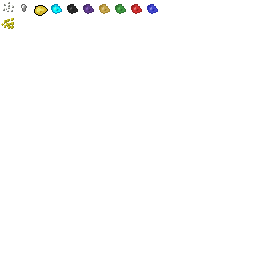
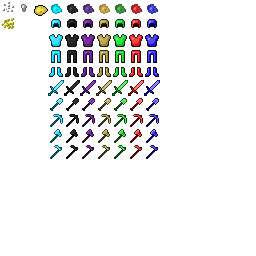
Implemented Turquoise Sword, added rough textures for all armor and gem tools

diff --git a/src/minecraft/wal/resourceengineering/common/core/items/tools/ItemToolSwordTurquoise.java b/src/minecraft/wal/resourceengineering/common/core/items/tools/ItemToolSwordTurquoise.java
@@ -1,0 +1,100 @@
+package resourceengineering.common.core.items.tools;
+
+import resourceengineering.common.ResourceEngineeringMain;
+import cpw.mods.fml.relauncher.*;
+import net.minecraft.block.Block;
+import net.minecraft.block.material.Material;
+import net.minecraft.creativetab.CreativeTabs;
+import net.minecraft.entity.Entity;
+import net.minecraft.entity.EntityLiving;
+import net.minecraft.entity.player.EntityPlayer;
+import net.minecraft.item.EnumAction;
+import net.minecraft.item.EnumToolMaterial;
+import net.minecraft.item.Item;
+import net.minecraft.item.ItemStack;
+import net.minecraft.world.World;
+
+public class ItemToolSwordTurquoise extends Item
+{
+	private int weaponDamage;
+	private final EnumToolMaterial toolMaterial;
+	public ItemToolSwordTurquoise(int ID,EnumToolMaterial material, int tex, String name)
+	{
+		super(ID);
+		toolMaterial = material;
+		maxStackSize = 1;
+		setMaxDamage(material.getMaxUses());
+		setCreativeTab(ResourceEngineeringMain.reTab);
+		weaponDamage=4 + toolMaterial.getDamageVsEntity();
+		setTextureFile("/walgfx/Items.png");
+		setIconIndex(tex);
+		setItemName(name);
+	}
+	public int func_82803_g()
+	{
+		return this.toolMaterial.getDamageVsEntity();
+	}
+	public float getStrVsBlock(ItemStack par1ItemStack,Block par2Block)
+	{
+		if(par2Block.blockID == Block.web.blockID)
+		{
+			return 15.0F;
+		}
+		else
+		{
+			Material var3 = par2Block.blockMaterial;
+			return var3 != Material.plants && var3 != Material.vine && var3 != Material.coral && var3 != Material.leaves && var3 != Material.pumpkin ? 1.0F:1.5F;
+		}
+	}
+	public boolean hitEntity(ItemStack par1ItemStack,EntityLiving par2EntityLiving,EntityLiving par3EntityLiving)
+	{
+		par1ItemStack.damageItem(1,par3EntityLiving);
+		return true;
+	}
+	public boolean onBlockDestroyed(ItemStack itemStack,World world,int par3,int x,int y,int z, int par6, EntityLiving entityLiving)
+	{
+		if((double)Block.blocksList[par3].getBlockHardness(world, x, y, z)!=0.0D)
+		{
+			itemStack.damageItem(3,entityLiving);
+		}
+		return true;
+	}
+	public int getDamageVsEntity(Entity entity)
+	{
+		return this.weaponDamage;
+	}
+	@SideOnly(Side.CLIENT)
+	public boolean isFull3D()
+	{
+		return true;
+	}
+	public EnumAction getItemUseAction(ItemStack itemStack)
+	{
+		return EnumAction.block;
+	}
+	public int getMaxItemUseDuration(ItemStack itemStack)
+	{
+		return 72000;
+	}
+	public ItemStack onItemRightClick(ItemStack itemStack,World world,EntityPlayer entityPlayer)
+	{
+		entityPlayer.setItemInUse(itemStack, this.getMaxItemUseDuration(itemStack));
+		return itemStack;
+	}
+	public boolean canHarvestBlock(Block block)
+	{
+		return block.blockID == block.web.blockID;
+	}
+	public int getItemEnchantibility()
+	{
+		return this.toolMaterial.getEnchantability();
+	}
+	public String func_77825_f()
+	{
+		return this.toolMaterial.toString();
+	}
+	public boolean getIsRepairable(ItemStack itemStack,ItemStack itemStack2)
+	{
+		return true;
+	}
+}

diff --git a/src/minecraft/wal/resourceengineering/common/core/CommonProxy.java b/src/minecraft/wal/resourceengineering/common/core/CommonProxy.java
@@ -90,13 +90,20 @@ public class CommonProxy implements IGuiHandler
 		LanguageRegistry.addName(new ItemStack(ResourceEngineeringMain.gemBlock,1,4), "Emerald Block");
 		LanguageRegistry.addName(new ItemStack(ResourceEngineeringMain.gemBlock,1,5), "Ruby Block");
 		LanguageRegistry.addName(new ItemStack(ResourceEngineeringMain.gemBlock,1,6), "Sapphire Block");
+		
+		//Swords
+		LanguageRegistry.addName(new ItemStack(ResourceEngineeringMain.turquoiseSword,1,0),"Turquoise Sword");
 	}
 	public void addRecipes()
 	{
+		//Temp crafting recipes for nuggets from flakes, will eventually be smelting
 		GameRegistry.addRecipe(new ItemStack(Item.goldNugget,1),"XXX","XXX","XXX",Character.valueOf('X'),new ItemStack(ResourceEngineeringMain.flake,1,1));//gold nugget from 9 gold flakes
 		GameRegistry.addRecipe(new ItemStack(ResourceEngineeringMain.nugget,1,0),"XXX","XXX","XXX",Character.valueOf('X'),new ItemStack(ResourceEngineeringMain.flake,1,0));//iron nugget from 9 iron flakes
+		
+		//Ingot crafting recipe(s)
 		GameRegistry.addRecipe(new ItemStack(Item.ingotIron,1),"XXX","XXX","XXX",Character.valueOf('X'),new ItemStack(ResourceEngineeringMain.nugget,1,0));//iron ingot from 9 iron nuggets
 		
+		//Golden Potato Recipe
 		GameRegistry.addRecipe(new ItemStack(ResourceEngineeringMain.goldenPotato,1,0),"XXX","XAX","XXX",Character.valueOf('X'),new ItemStack(ResourceEngineeringMain.flake,1,1),Character.valueOf('A'),Item.poisonousPotato);
 		
 		//Gem Block Recipes
@@ -126,5 +133,8 @@ public class CommonProxy implements IGuiHandler
 		FurnaceRecipes.smelting().addSmelting(ResourceEngineeringMain.oreBlock.blockID,4,new ItemStack(ResourceEngineeringMain.gem,5,4),xpPerSmelt);
 		FurnaceRecipes.smelting().addSmelting(ResourceEngineeringMain.oreBlock.blockID,5,new ItemStack(ResourceEngineeringMain.gem,5,5),xpPerSmelt);
 		FurnaceRecipes.smelting().addSmelting(ResourceEngineeringMain.oreBlock.blockID,6,new ItemStack(ResourceEngineeringMain.gem,5,6),xpPerSmelt);
+		
+		//Sword Recipes
+		GameRegistry.addRecipe(new ItemStack(ResourceEngineeringMain.turquoiseSword,1,0),"X","X","A",Character.valueOf('X'),new ItemStack(ResourceEngineeringMain.gem,1,0),Character.valueOf('A'),new ItemStack(Item.stick,1,0));
 	}
 }

diff --git a/src/minecraft/wal/resourceengineering/common/ResourceEngineeringMain.java b/src/minecraft/wal/resourceengineering/common/ResourceEngineeringMain.java
@@ -33,6 +33,9 @@ import resourceengineering.common.core.items.ItemNugget;
 import resourceengineering.common.core.items.ItemGoldenPotato;
 import resourceengineering.common.core.items.ItemGem;
 
+//Tool Imports
+import resourceengineering.common.core.items.tools.ItemToolSwordTurquoise;
+
 //Block Imports
 import resourceengineering.common.blocks.BlockOre;
 import resourceengineering.common.blocks.BlockGem;
@@ -40,7 +43,7 @@ import resourceengineering.common.blocks.BlockGem;
 @NetworkMod(clientSideRequired=true,serverSideRequired=false,
 clientPacketHandlerSpec=@SidedPacketHandler(channels={"WAL_RE"},packetHandler=ClientPacketHandler.class),
 serverPacketHandlerSpec=@SidedPacketHandler(channels = {}, packetHandler = ServerPacketHandler.class))
-@Mod(modid="walResourceEngineering",name="Resource Engineering",version="0.0.1")
+@Mod(modid="walResourceEngineering",name="Resource Engineering",version="0.0.21")
 public class ResourceEngineeringMain
 {
 	@Instance("Wal_ResourceEngineering")
@@ -55,11 +58,19 @@ public class ResourceEngineeringMain
 	public static Item goldenPotato;
 	public static Item gem;
 	
+	//Tools
+	public static Item turquoiseSword;
+	
 	//Blocks
 	public static Block oreBlock;
 	public static Block gemBlock;
 
 	public static CreativeTabs reTab = new ResourceEngineeringTab(CreativeTabs.getNextID(),"wal_ResouceEngineeringTab");
+	
+	//Gem Materials
+	public static EnumToolMaterial turquoiseMaterial = EnumHelper.addToolMaterial("Turquoise",1,64,50.0F,3,30);
+	
+	
 	@PreInit()
 	public void PreInitialization(FMLPreInitializationEvent e)
 	{
@@ -70,6 +81,7 @@ public class ResourceEngineeringMain
 		nugget = new ItemNugget(cc.itemNuggetID);
 		goldenPotato = new ItemGoldenPotato(cc.itemGoldenPotatoID,5,6,false);
 		gem = new ItemGem(cc.itemGemID);
+		turquoiseSword = new ItemToolSwordTurquoise(cc.itemToolSwordTurquoiseID,turquoiseMaterial,83,"wal_itemToolSwordTurquoise");
 		
 		oreBlock = new BlockOre(cc.oreBlockID);
 		gemBlock = new BlockGem(cc.gemBlockID);

diff --git a/src/minecraft/wal/resourceengineering/common/ConfigCore.java b/src/minecraft/wal/resourceengineering/common/ConfigCore.java
@@ -13,6 +13,7 @@ public class ConfigCore
 	public static int itemGemID;
 	
 	//Tools
+	public static int itemToolSwordTurquoiseID;
 	
 	//Blocks
 	public static int oreBlockID;
@@ -30,6 +31,7 @@ public class ConfigCore
 		itemGoldenPotatoID = config.getItem("Golden Potato", 21001).getInt();
 		itemNuggetID = config.getItem("Metal Nugget", 21002).getInt();
 		itemGemID = config.getItem("Gem",21003).getInt();
+		itemToolSwordTurquoiseID = config.getItem("Turquoise Sword", 21004).getInt();
 		
 		oreBlockID = config.getBlock("Ore",250).getInt();
 		gemBlockID = config.getBlock("GemBlock",251).getInt();
